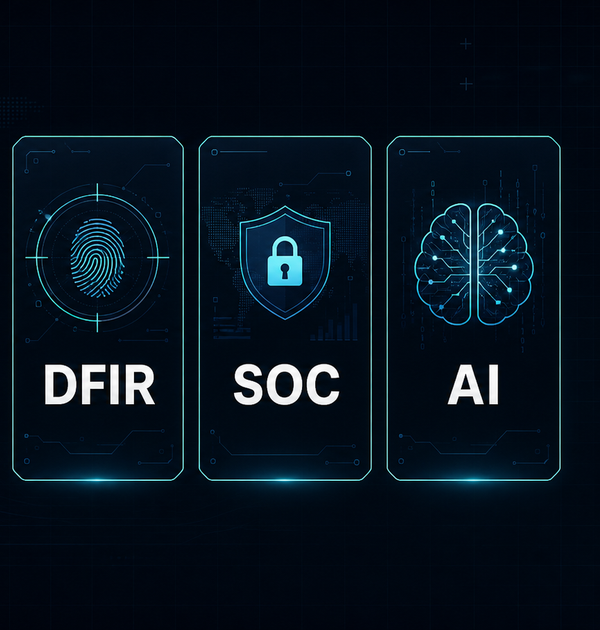
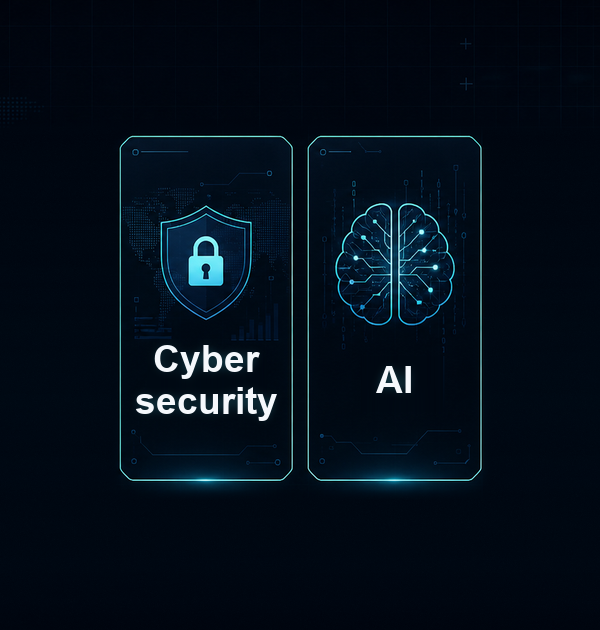
Update name block and hero visual to Cybersecurity · AI
- Remove the "YA" initials badge from the header on all pages.
- Header tagline on all pages: "Cybersecurity · AI".
- Hero visual: keep the box and card style, show two cards
  (shield: Cybersecurity, brain: AI) instead of DFIR / SOC / AI.

Changed region(s): [[0.0, 0.2111, 0.93, 0.7841], [0.93, 0.2413, 0.96, 0.7238]]

diff --git a/index.html b/index.html
@@ -20,10 +20,9 @@
   <body class="structured-body">
     <header class="site-header structured-header">
       <a class="brand" href="#top" aria-label="Yasir Alharbi home">
-        <span class="brand-mark">YA</span>
         <span>
           <strong>Yasir Alharbi</strong>
-          <small>DFIR | SOC | AI</small>
+          <small>Cybersecurity · AI</small>
         </span>
       </a>
       <nav class="nav-links" aria-label="Main navigation">
@@ -109,8 +108,8 @@
             </div>
           </div>
         </div>
-        <div class="identity-visual" aria-label="Portfolio visual: DFIR, SOC, and AI">
-          <img src="assets/portfolio-hero-visual.png" alt="DFIR, SOC, and AI portfolio visual">
+        <div class="identity-visual" aria-label="Portfolio visual: Cybersecurity and AI">
+          <img src="assets/portfolio-hero-visual.png?v=2" alt="Cybersecurity and AI portfolio visual">
         </div>
       </section>
 

diff --git a/articles/sans-for508-dfir-learning-journey.html b/articles/sans-for508-dfir-learning-journey.html
@@ -10,10 +10,9 @@
   <body class="article-page">
     <header class="site-header">
       <a class="brand" href="../index.html#top" aria-label="Yasir Alharbi home">
-        <span class="brand-mark">YA</span>
         <span>
           <strong>Yasir Alharbi</strong>
-          <small>Cybersecurity &amp; AI</small>
+          <small>Cybersecurity · AI</small>
         </span>
       </a>
       <nav class="nav-links" aria-label="Main navigation">

diff --git a/articles/best-soc-analysts-build-investigations.html b/articles/best-soc-analysts-build-investigations.html
@@ -10,10 +10,9 @@
   <body class="article-page">
     <header class="site-header">
       <a class="brand" href="../index.html#top" aria-label="Yasir Alharbi home">
-        <span class="brand-mark">YA</span>
         <span>
           <strong>Yasir Alharbi</strong>
-          <small>Cybersecurity & AI</small>
+          <small>Cybersecurity · AI</small>
         </span>
       </a>
       <nav class="nav-links" aria-label="Main navigation">

diff --git a/articles/most-important-skill-communication-in-soc.html b/articles/most-important-skill-communication-in-soc.html
@@ -10,10 +10,9 @@
   <body class="article-page">
     <header class="site-header">
       <a class="brand" href="../index.html#top" aria-label="Yasir Alharbi home">
-        <span class="brand-mark">YA</span>
         <span>
           <strong>Yasir Alharbi</strong>
-          <small>Cybersecurity & AI</small>
+          <small>Cybersecurity · AI</small>
         </span>
       </a>
       <nav class="nav-links" aria-label="Main navigation">

diff --git a/articles/nvidia-generative-ai-certification-preparation.html b/articles/nvidia-generative-ai-certification-preparation.html
@@ -10,10 +10,9 @@
   <body class="article-page">
     <header class="site-header">
       <a class="brand" href="../index.html#top" aria-label="Yasir Alharbi home">
-        <span class="brand-mark">YA</span>
         <span>
           <strong>Yasir Alharbi</strong>
-          <small>Cybersecurity & AI</small>
+          <small>Cybersecurity · AI</small>
         </span>
       </a>
       <nav class="nav-links" aria-label="Main navigation">

diff --git a/articles/one-year-two-worlds.html b/articles/one-year-two-worlds.html
@@ -10,10 +10,9 @@
   <body class="article-page">
     <header class="site-header">
       <a class="brand" href="../index.html#top" aria-label="Yasir Alharbi home">
-        <span class="brand-mark">YA</span>
         <span>
           <strong>Yasir Alharbi</strong>
-          <small>Cybersecurity & AI</small>
+          <small>Cybersecurity · AI</small>
         </span>
       </a>
       <nav class="nav-links" aria-label="Main navigation">

diff --git a/articles/what-thousands-of-security-alerts-taught-me.html b/articles/what-thousands-of-security-alerts-taught-me.html
@@ -10,10 +10,9 @@
   <body class="article-page">
     <header class="site-header">
       <a class="brand" href="../index.html#top" aria-label="Yasir Alharbi home">
-        <span class="brand-mark">YA</span>
         <span>
           <strong>Yasir Alharbi</strong>
-          <small>Cybersecurity & AI</small>
+          <small>Cybersecurity · AI</small>
         </span>
       </a>
       <nav class="nav-links" aria-label="Main navigation">

diff --git a/articles/why-context-is-the-most-powerful-detection-rule.html b/articles/why-context-is-the-most-powerful-detection-rule.html
@@ -10,10 +10,9 @@
   <body class="article-page">
     <header class="site-header">
       <a class="brand" href="../index.html#top" aria-label="Yasir Alharbi home">
-        <span class="brand-mark">YA</span>
         <span>
           <strong>Yasir Alharbi</strong>
-          <small>Cybersecurity & AI</small>
+          <small>Cybersecurity · AI</small>
         </span>
       </a>
       <nav class="nav-links" aria-label="Main navigation">
